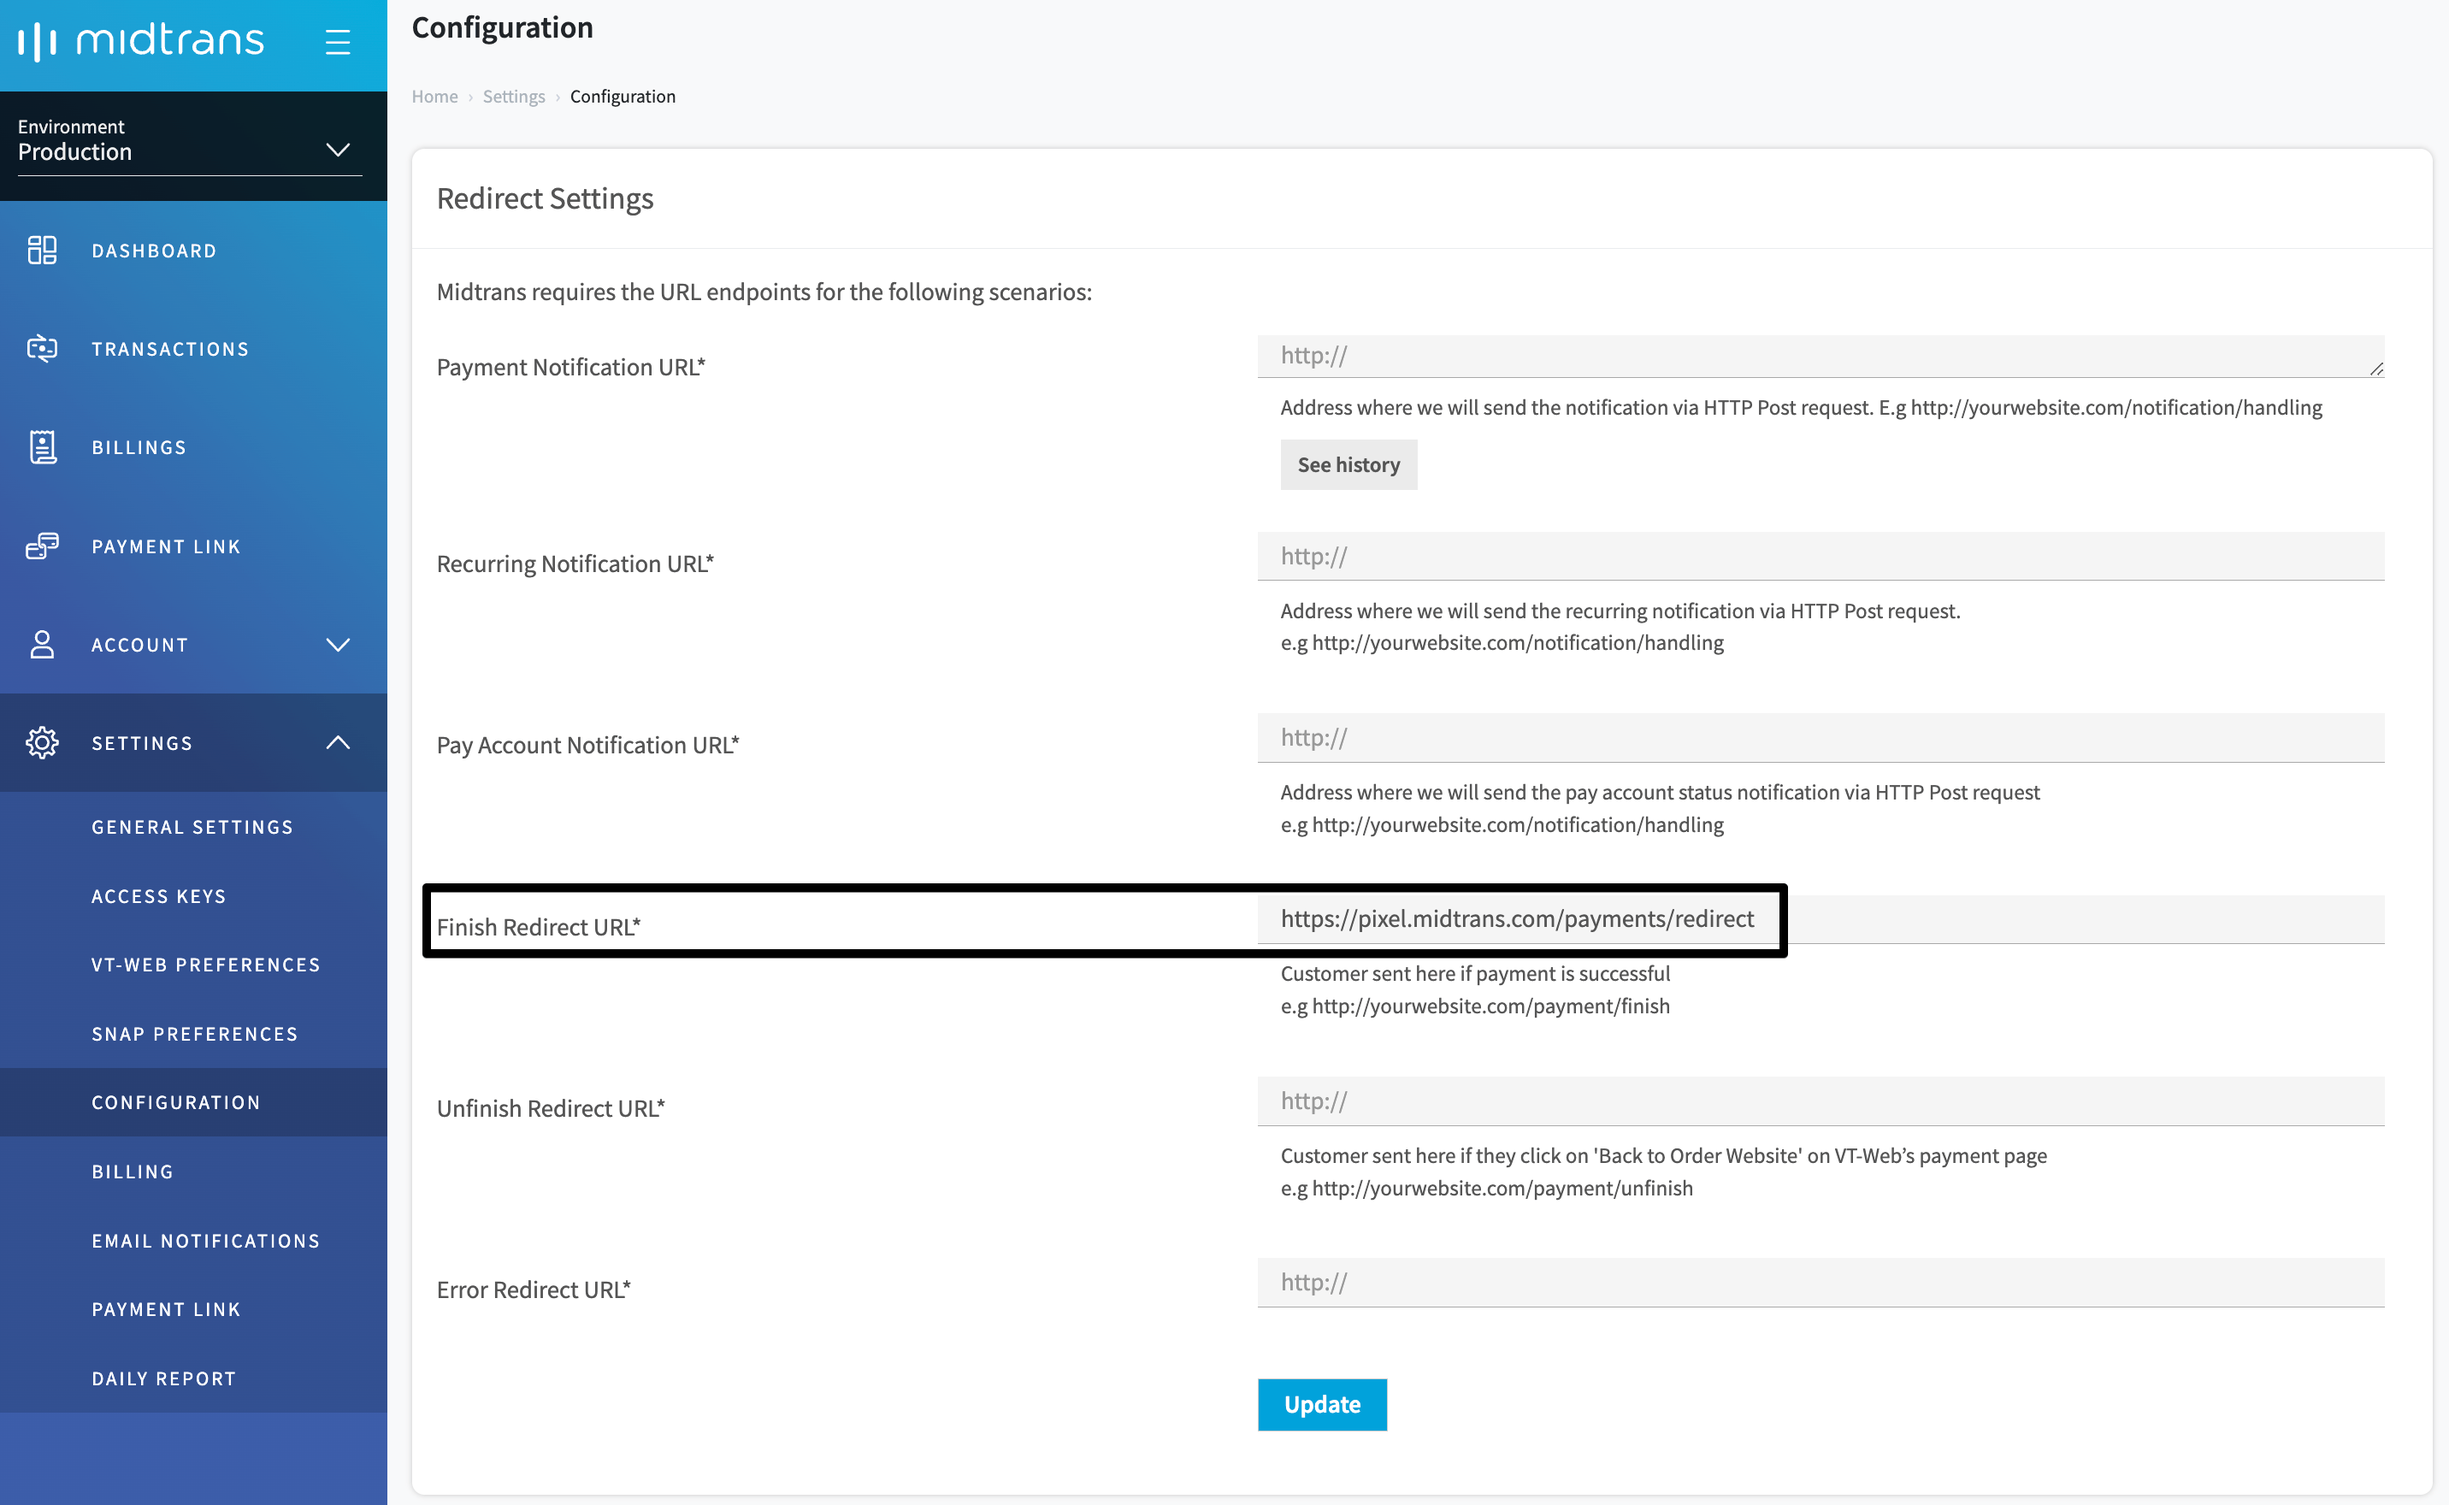
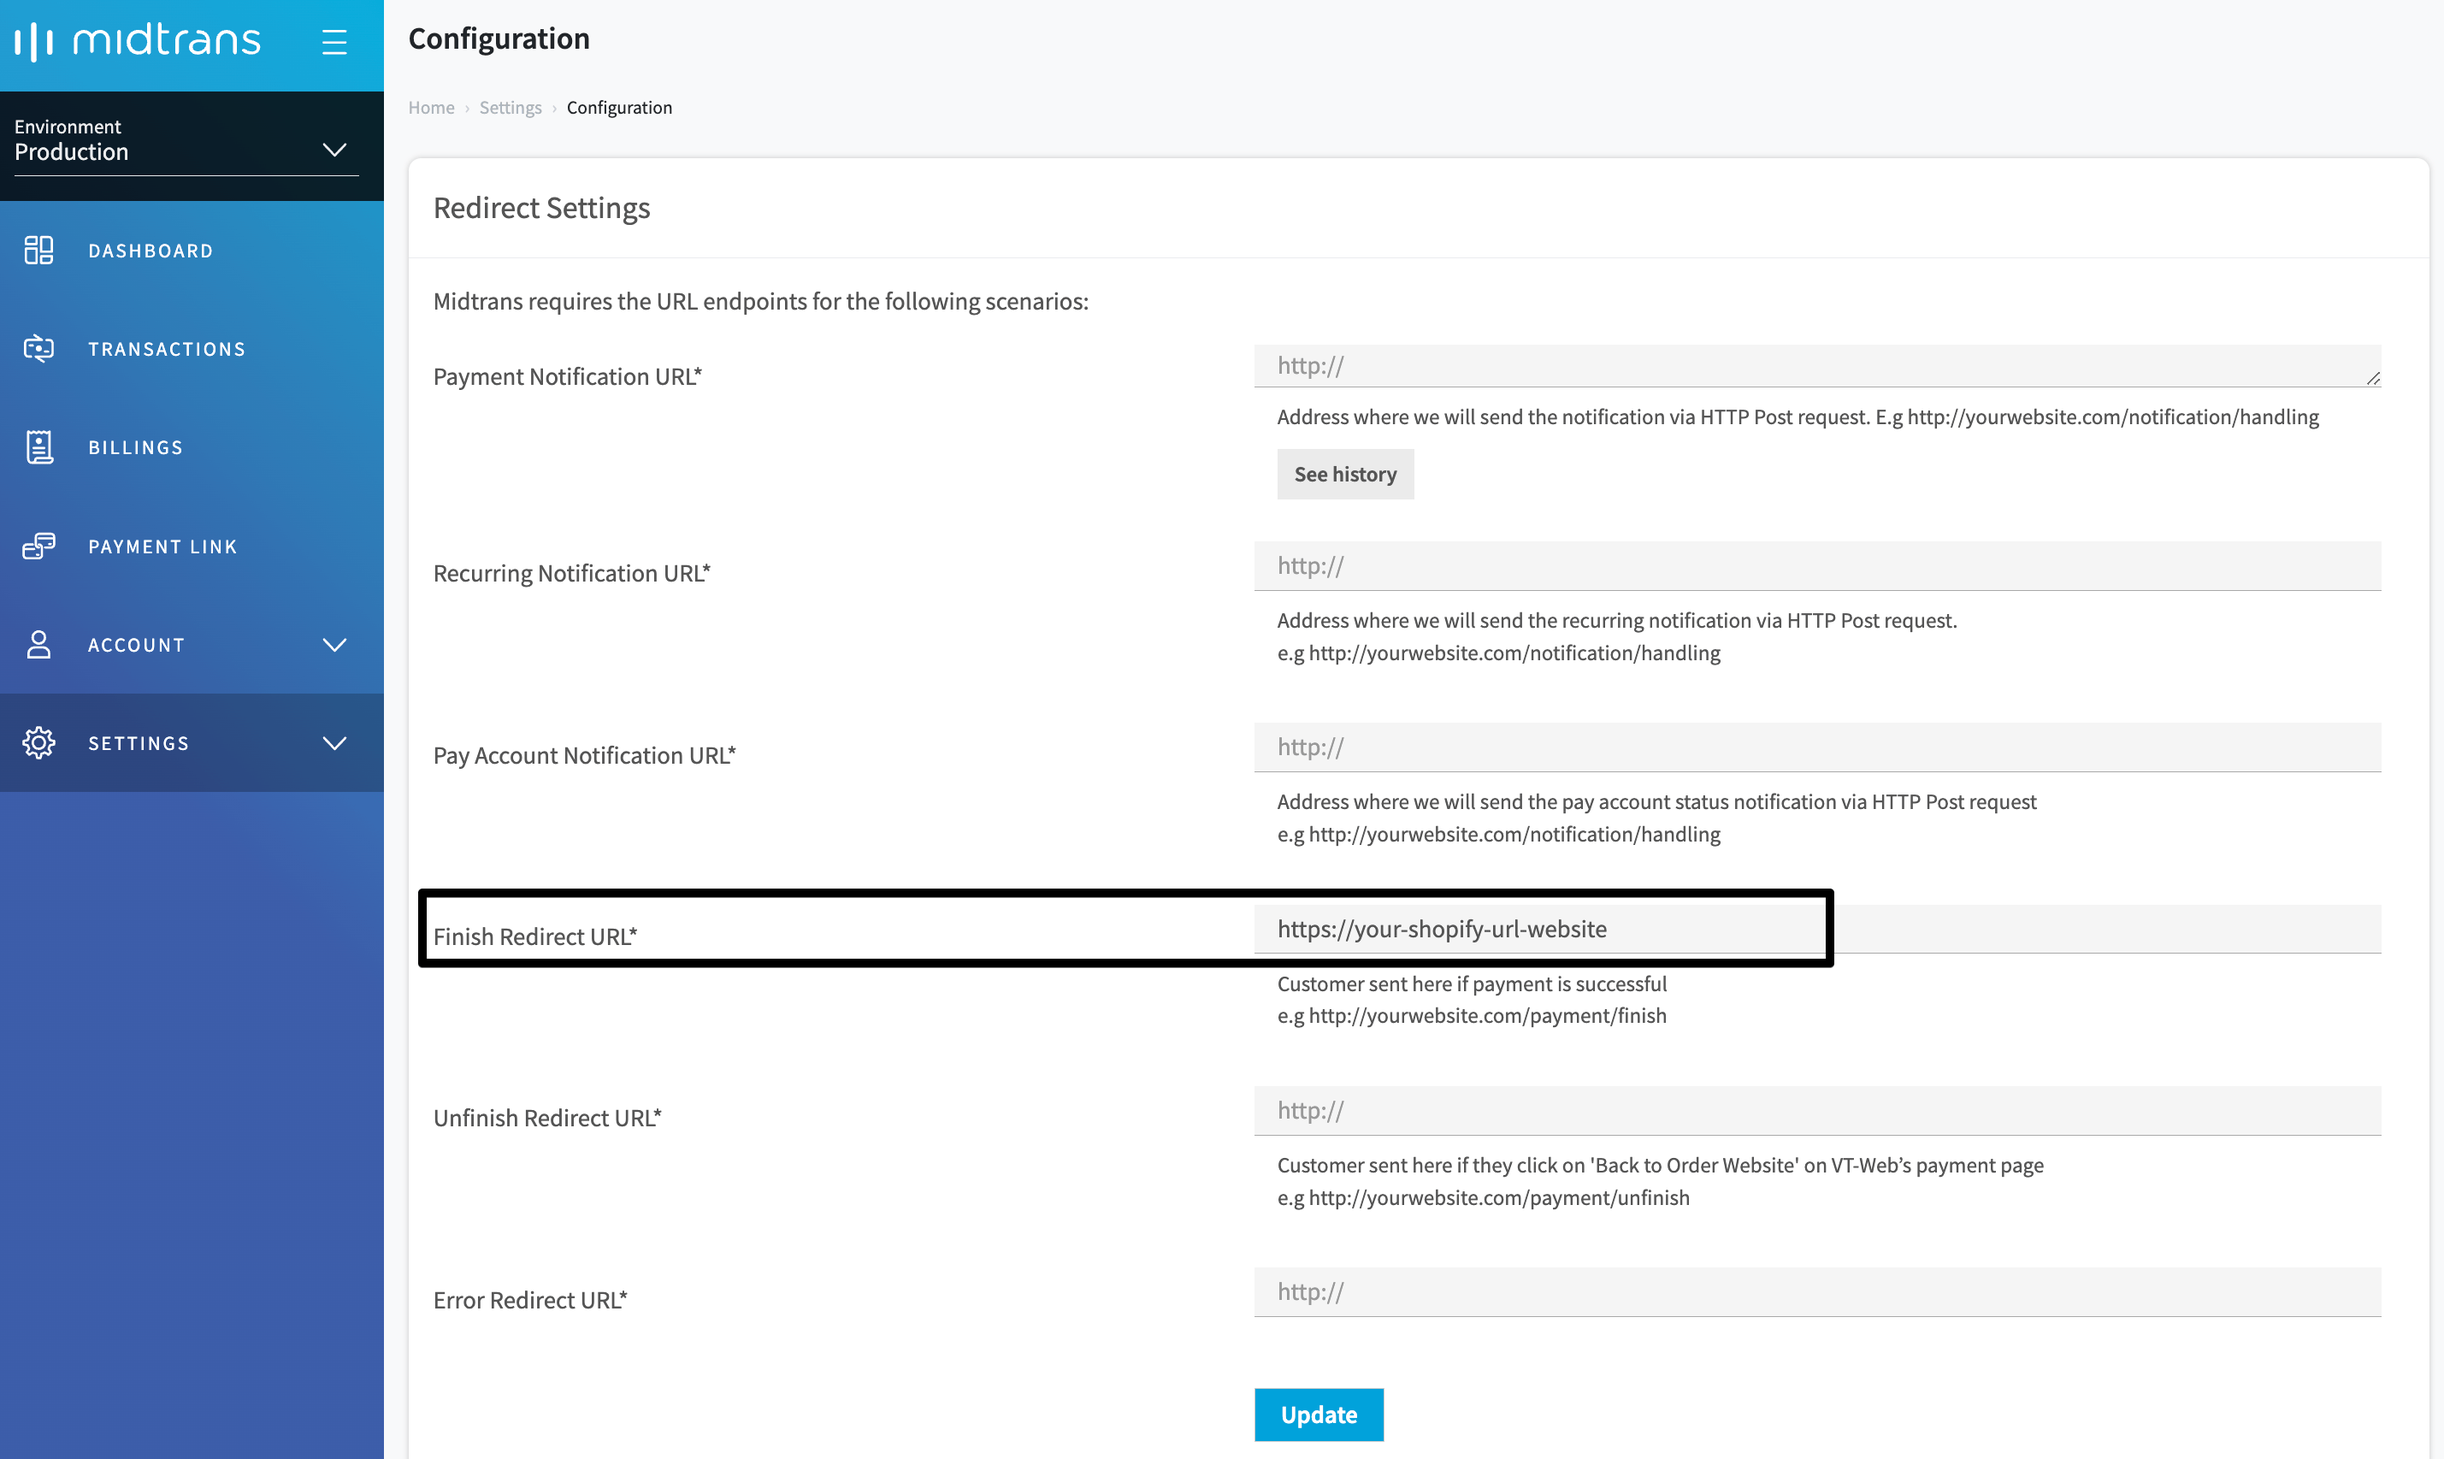
update finish redirect url

diff --git a/en/snap/platform/overview.md b/en/snap/platform/overview.md
@@ -53,7 +53,7 @@ Depending on each situation, please **follow one which best fits your situation*
 
 2. Select __Settings->Configuration__.
 
-	Some payment methods like BCA Klikpay, Brimo, Danamon Online, Octo Clicks, UOB EZ Pay, Akulaku, and Kredivo, required finish redirect URL after customer completed the payment. If you have activated payment methods above, you need to fill this value `https://pixel.midtrans.com/payments/redirect` on  **Settings > Configuration > Finish Redirect URL**
+	Some payment methods such as UOB EZ Pay and Kredivo require a Finish Redirect URL after the customer completes the payment. If you have been activated the payment methods above, you can configure the Finish Redirect URL through the menu **Settings > Configuration**. Enter **Finish Redirect URL** with your Shopify URL website, then click Update Button.
 
 	![Set Finish URL](./../../../asset/image/shopify-new-27-set-finish-url.png ':size=400')<br>
 
@@ -117,7 +117,7 @@ During the transition period, move from Old Midtrans App to New Midtrans App, yo
 
 2. Select __Settings->Configuration__.
 
-	Some payment methods like BCA Klikpay, Brimo, Danamon Online, Octo Clicks, UOB EZ Pay, Akulaku, and Kredivo, required finish redirect URL after customer completed the payment. If you have activated payment methods above, you need to fill this value `https://pixel.midtrans.com/payments/redirect` on  **Settings > Configuration > Finish Redirect URL**
+	Some payment methods such as UOB EZ Pay and Kredivo require a Finish Redirect URL after the customer completes the payment. If you have been activated the payment methods above, you can configure the Finish Redirect URL through the menu **Settings > Configuration**. Enter **Finish Redirect URL** with your Shopify URL website, then click Update Button.
 
 	![Set Finish URL](./../../../asset/image/shopify-new-27-set-finish-url.png ':size=400')<br>
 
